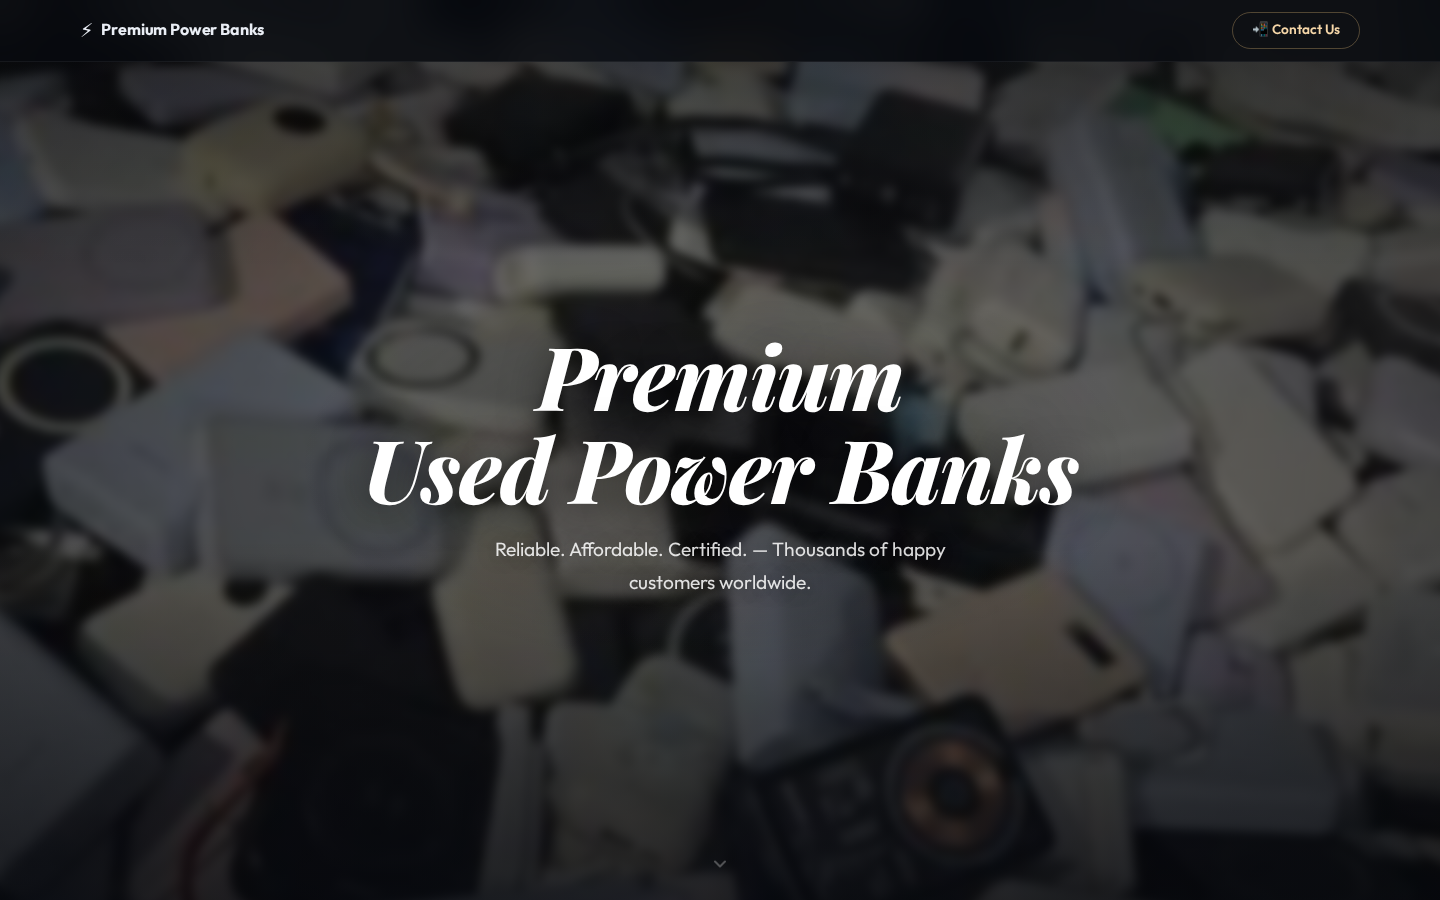
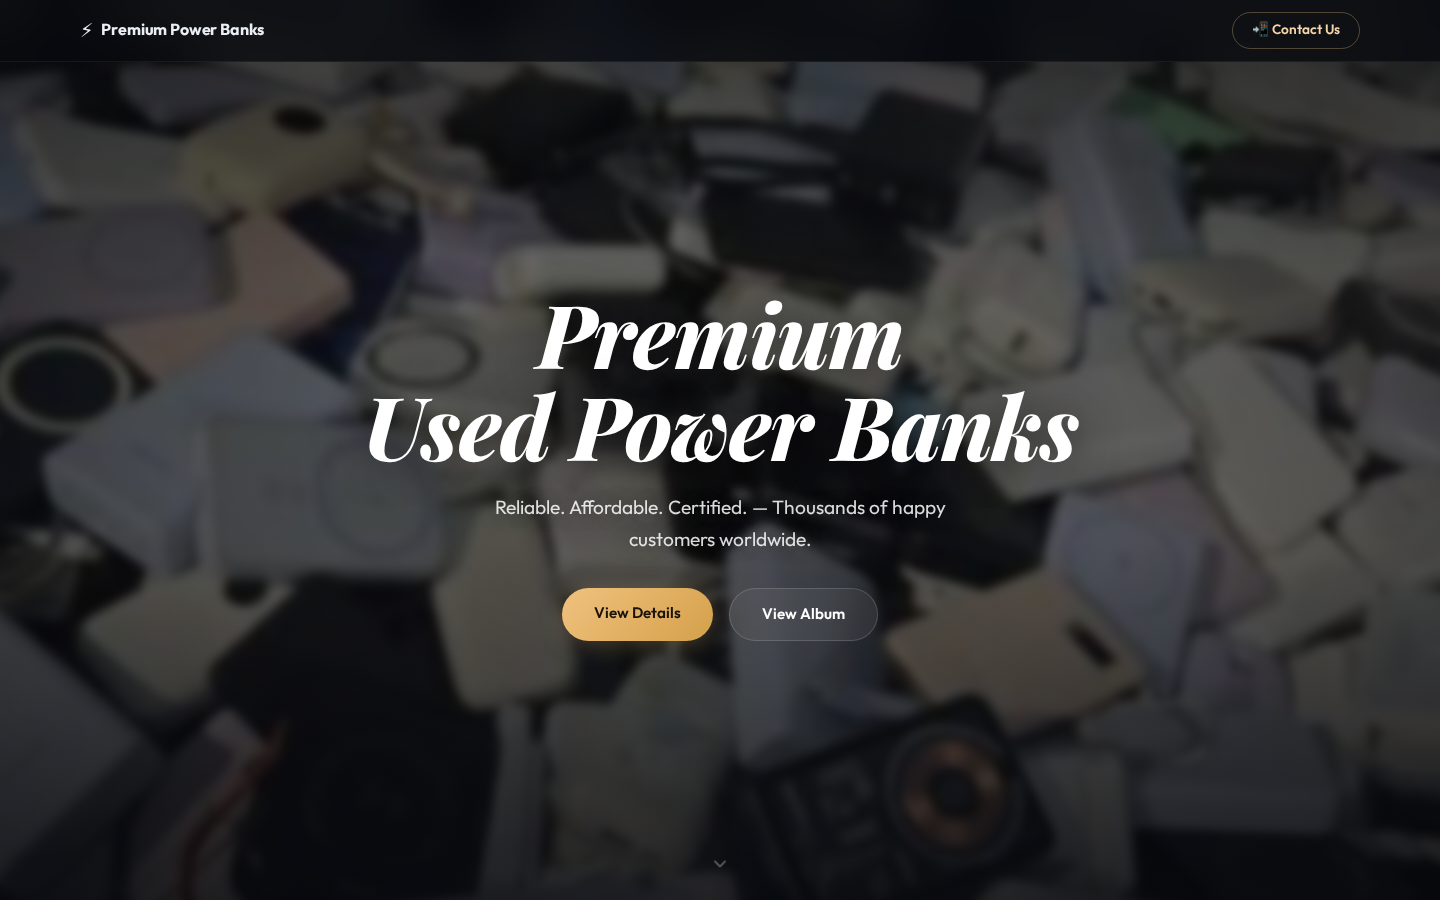
Add View Details + View Album buttons on hero with linked pages

Changed region(s): [[0.25, 0.3422, 0.75, 0.7156]]

diff --git a/album.html b/album.html
@@ -1,0 +1,83 @@
+<!DOCTYPE html>
+<html lang="en">
+<head>
+  <meta charset="UTF-8" />
+  <meta name="viewport" content="width=device-width, initial-scale=1.0" />
+  <title>Album — Premium Used Power Banks</title>
+  <link rel="preconnect" href="https://fonts.googleapis.com" />
+  <link href="https://fonts.googleapis.com/css2?family=Outfit:wght@300..900&family=Playfair+Display:ital,wght@0,600..900;1,600..900&display=swap" rel="stylesheet" />
+  <link rel="stylesheet" href="style.css" />
+  <style>
+    .page-album{min-height:100vh;padding:7rem 1.5rem 2rem;background:var(--bg)}
+    .album-header{text-align:center;margin-bottom:2.5rem}
+    .album-header h1{font-family:'Playfair Display',serif;font-size:clamp(1.6rem,4vw,2.4rem);font-weight:700;font-style:italic;color:var(--gold-light)}
+    .album-header p{color:var(--text-muted);font-size:0.9rem;margin-top:0.3rem}
+    .album-grid{display:grid;grid-template-columns:repeat(auto-fit,minmax(280px,1fr));gap:1rem;max-width:960px;margin:0 auto}
+    .album-card{border-radius:20px;overflow:hidden;border:1px solid var(--border);background:var(--bg-card);transition:transform 0.35s,box-shadow 0.35s}
+    .album-card:hover{transform:translateY(-4px);box-shadow:0 16px 48px rgba(0,0,0,0.4)}
+    .album-card img{width:100%;height:240px;object-fit:cover;display:block}
+    .album-card__body{padding:1.2rem 1.2rem 1.5rem}
+    .album-card__body h3{font-size:1rem;font-weight:700;color:var(--text);margin-bottom:0.2rem}
+    .album-card__body p{font-size:0.82rem;color:var(--text-muted)}
+    .back-link{display:inline-flex;align-items:center;gap:0.4rem;color:var(--gold-light);text-decoration:none;font-size:0.9rem;font-weight:500;margin-bottom:1.5rem;transition:gap 0.3s}
+    .back-link:hover{gap:0.7rem}
+    @media(max-width:640px){.page-album{padding:5rem 0.75rem 1.5rem}}
+    .album-card__img{width:100%;height:240px;display:flex;align-items:center;justify-content:center;font-size:3rem;font-weight:900;color:#fff}
+  </style>
+</head>
+<body>
+  <div class="page-album">
+    <div style="max-width:960px;margin:0 auto">
+      <a href="index.html" class="back-link">← Back to Home</a>
+      <div class="album-header">
+        <h1>Product Album</h1>
+        <p>Premium Used Power Banks — Real Stock Photos</p>
+      </div>
+      <div class="album-grid">
+        <div class="album-card">
+          <div class="album-card__img" style="background:linear-gradient(135deg,#1a1a2e,#16213e)">🔋10K</div>
+          <div class="album-card__body">
+            <h3>EcoCharge 10K</h3>
+            <p>10,000 mAh · Slim Design · Fast Charging</p>
+          </div>
+        </div>
+        <div class="album-card">
+          <div class="album-card__img" style="background:linear-gradient(135deg,#2d1b3d,#4a1942)">🔋20K</div>
+          <div class="album-card__body">
+            <h3>PowerMax 20K</h3>
+            <p>20,000 mAh · Dual USB · Premium Build</p>
+          </div>
+        </div>
+        <div class="album-card">
+          <div class="album-card__img" style="background:linear-gradient(135deg,#0f2027,#203a43)">🔋30K</div>
+          <div class="album-card__body">
+            <h3>UltraCell 30K</h3>
+            <p>30,000 mAh · Fast Charge · High Capacity</p>
+          </div>
+        </div>
+        <div class="album-card">
+          <img src="bg.jpg" alt="Power Bank Collection" />
+          <div class="album-card__body">
+            <h3>Wholesale Lot — Photo 1</h3>
+            <p>Bulk inventory · Mixed capacities available</p>
+          </div>
+        </div>
+        <div class="album-card">
+          <img src="bg2.jpg" alt="Power Bank Collection 2" />
+          <div class="album-card__body">
+            <h3>Wholesale Lot — Photo 2</h3>
+            <p>Warehouse stock · Ready to ship</p>
+          </div>
+        </div>
+        <div class="album-card">
+          <div class="album-card__img" style="background:linear-gradient(135deg,#1b4332,#2d6a4f)">🔋15K</div>
+          <div class="album-card__body">
+            <h3>TravelBuddy 15K</h3>
+            <p>15,000 mAh · Wireless Charging · Compact</p>
+          </div>
+        </div>
+      </div>
+    </div>
+  </div>
+</body>
+</html>

diff --git a/details.html b/details.html
@@ -1,0 +1,49 @@
+<!DOCTYPE html>
+<html lang="en">
+<head>
+  <meta charset="UTF-8" />
+  <meta name="viewport" content="width=device-width, initial-scale=1.0" />
+  <title>Details — Premium Used Power Banks</title>
+  <link rel="preconnect" href="https://fonts.googleapis.com" />
+  <link href="https://fonts.googleapis.com/css2?family=Outfit:wght@300..900&family=Playfair+Display:ital,wght@0,600..900;1,600..900&display=swap" rel="stylesheet" />
+  <link rel="stylesheet" href="style.css" />
+  <style>
+    .page-details{min-height:100vh;display:flex;align-items:center;justify-content:center;padding:7rem 1.5rem 2rem;background:var(--bg)}
+    .page-details .card--glass{max-width:640px;width:100%}
+    .back-link{display:inline-flex;align-items:center;gap:0.4rem;color:var(--gold-light);text-decoration:none;font-size:0.9rem;font-weight:500;margin-bottom:1.5rem;transition:gap 0.3s}
+    .back-link:hover{gap:0.7rem}
+    .page-header{text-align:center;margin-bottom:0}
+    .page-header h1{font-family:'Playfair Display',serif;font-size:clamp(1.6rem,4vw,2.4rem);font-weight:700;font-style:italic;color:var(--gold-light);margin-bottom:0.3rem}
+    .page-header p{color:var(--text-muted);font-size:0.9rem}
+    @media(max-width:640px){.page-details{padding:5rem 0.75rem 1.5rem}}
+  </style>
+</head>
+<body>
+  <div class="page-details">
+    <div style="max-width:640px;width:100%">
+      <a href="index.html" class="back-link">← Back to Home</a>
+      <div class="card--glass" style="padding:2.5rem 2rem">
+        <div class="page-header">
+          <span style="font-size:2.5rem;display:block;margin-bottom:0.3rem">🔋</span>
+          <h1>Wholesale Power Banks</h1>
+          <p>1 Sack / 1 Ton Minimum — B2B Only</p>
+        </div>
+        <div style="height:1px;background:var(--border);margin:1.5rem 0"></div>
+        <div class="card__list">
+          <div class="card__item"><span class="card__tag">📦 Brands</span><span class="card__value">Anker, Baseus, Ugreen &amp; more</span></div>
+          <div class="card__item"><span class="card__tag">✅ Condition</span><span class="card__value">Premium Used · Strict QC Passed</span></div>
+          <div class="card__item"><span class="card__tag">🔋 Capacities</span><span class="card__value">10,000 / 20,000 mAh &amp; Magnetic</span></div>
+          <div class="card__item card__item--highlight"><span class="card__tag">🛑 MOQ</span><span class="card__value">1 Sack (1 Ton) = 4,400 PCS</span></div>
+          <div class="card__item card__item--warn"><span class="card__tag">❌ No Retail</span><span class="card__value">Wholesale Pricing Only</span></div>
+          <div class="card__item card__item--profit"><span class="card__tag">🚀 Profit Margin</span><span class="card__value">Huge Margins for Bulk Buyers</span></div>
+          <div class="card__item"><span class="card__tag">📍 Pickup</span><span class="card__value">Dongguan, China (Near Guangzhou)</span></div>
+          <div class="card__item"><span class="card__tag">🚚 Shipping</span><span class="card__value">Worldwide · Sea / Air / Express</span></div>
+          <div class="card__item card__item--contact"><span class="card__tag">📲 Contact</span><span class="card__value">[phone redacted] (WeChat / WhatsApp)</span></div>
+        </div>
+        <div style="height:1px;background:var(--border);margin:1.5rem 0"></div>
+        <p style="text-align:center;font-size:0.8rem;color:var(--text-muted)">Serious Buyers Only — B2B Wholesale Pricing · Premium Used Power Banks</p>
+      </div>
+    </div>
+  </div>
+</body>
+</html>

diff --git a/style.css b/style.css
@@ -114,6 +114,35 @@ body{
   0%,100%{transform:translateX(-50%) translateY(0);opacity:0.3}
   50%{transform:translateX(-50%) translateY(10px);opacity:0.8}
 }
+
+/* ─── Hero Buttons ─── */
+.hero__buttons{
+  display:flex;gap:1rem;justify-content:center;flex-wrap:wrap;
+  margin-top:2rem;
+}
+.btn{
+  display:inline-block;padding:0.85rem 2rem;border-radius:50px;
+  font-family:'Outfit',sans-serif;font-size:0.95rem;font-weight:600;
+  text-decoration:none;transition:all 0.3s cubic-bezier(0.23,1,0.32,1);
+  cursor:pointer;
+}
+.btn--primary{
+  background:linear-gradient(135deg,var(--gold),var(--gold-dark));
+  color:#1a1206;box-shadow:0 4px 24px rgba(240,194,127,0.25);
+}
+.btn--primary:hover{transform:translateY(-2px);box-shadow:0 8px 40px rgba(240,194,127,0.35)}
+.btn--secondary{
+  background:rgba(255,255,255,0.06);
+  backdrop-filter:blur(12px);
+  border:1px solid rgba(255,255,255,0.15);
+  color:#fff;
+}
+.btn--secondary:hover{background:rgba(255,255,255,0.12);transform:translateY(-2px)}
+@media(max-width:640px){
+  .hero__buttons{gap:0.7rem;margin-top:1.5rem}
+  .btn{padding:0.7rem 1.4rem;font-size:0.85rem}
+}
+
 @media(max-width:640px){.hero{padding-top:52px}}
 
 /* ─── STEP 2: WHOLESALE ─── */

diff --git a/index.html b/index.html
@@ -33,6 +33,10 @@
     <div class="hero__content">
       <h1 class="hero__title">Premium<br />Used Power Banks</h1>
       <p class="hero__sub">Reliable. Affordable. Certified. — Thousands of happy customers worldwide.</p>
+      <div class="hero__buttons">
+        <a href="details.html" class="btn btn--primary">View Details</a>
+        <a href="album.html" class="btn btn--secondary">View Album</a>
+      </div>
     </div>
     <a href="#wholesale" class="hero__scroll">
       <svg width="20" height="20" viewBox="0 0 24 24" fill="none" stroke="currentColor" stroke-width="2.5" stroke-linecap="round" stroke-linejoin="round"><polyline points="6 9 12 15 18 9"/></svg>